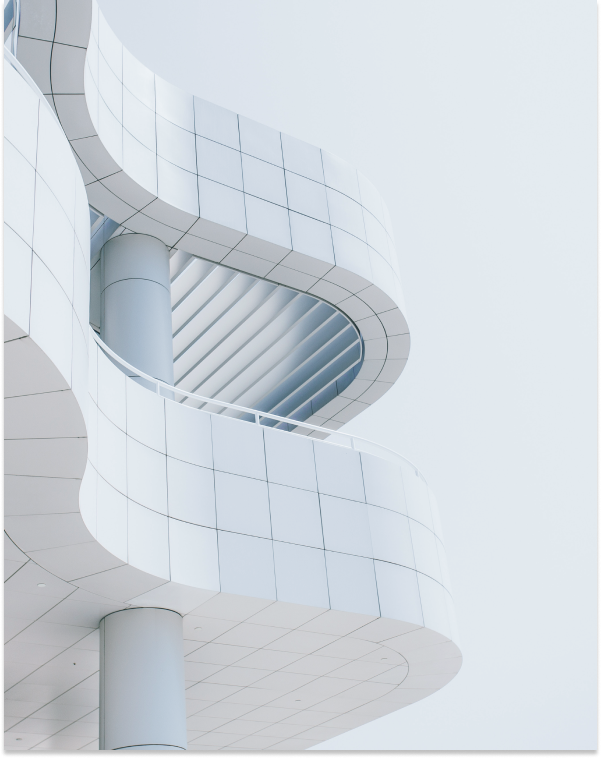
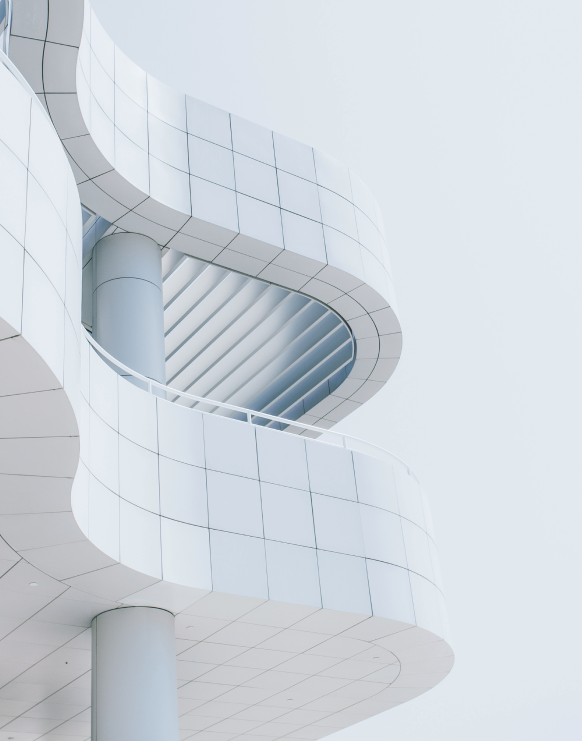
adaptiv

diff --git a/src/style/css/index.min.css b/src/style/css/index.min.css
@@ -1,2 +1,2 @@
-*{-webkit-box-sizing:border-box;box-sizing:border-box;margin:0;padding:0}.wrapper{max-width:1440px;margin:0 auto;font-family:'DM Sans', sans-serif}.container{max-width:85%;margin:0 auto}.nav-container{display:-webkit-box;display:-ms-flexbox;display:flex;-webkit-box-pack:justify;-ms-flex-pack:justify;justify-content:space-between;-webkit-box-align:center;-ms-flex-align:center;align-items:center;padding:64px 0 96px 0}.nav-container .nav__link{font-weight:bold;font-size:16px;text-decoration:none;color:#263640}.nav-container .nav__link:hover{color:#f90;border-bottom:2px solid #f90}.nav__link:not(:last-child){margin-right:40px}.button{position:relative;padding:0.5em 6em 0.5em 1em;text-decoration:none;font-family:inherit;color:#fff;background:#f90;border:none;outline:none;cursor:pointer;-webkit-transition:background 0.4s ease-in-out;transition:background 0.4s ease-in-out}.button__contact{width:12%}.button:hover{background:#ee6002}.button:before{content:"";position:absolute;top:calc(50% - 3px);right:15px;width:10px;height:2px;background:white;border-radius:2px;-webkit-transform:rotate(45deg);transform:rotate(45deg)}.button:after{content:"";position:absolute;top:calc(50% + 3px);right:15px;width:10px;height:2px;background:white;border-radius:2px;-webkit-transform:rotate(-45deg);transform:rotate(-45deg)}.link{position:relative;color:#f90;text-decoration:none;font-weight:500;font-size:16px}.link:before{content:"";position:absolute;top:calc(50% - 3px);left:150px;width:10px;height:2px;background:#f90;border-radius:2px;-webkit-transform:rotate(45deg);transform:rotate(45deg)}.link:after{content:"";position:absolute;top:calc(50% + 3px);left:150px;width:10px;height:2px;background:#f90;border-radius:2px;-webkit-transform:rotate(-45deg);transform:rotate(-45deg)}.hero__content{display:-webkit-box;display:-ms-flexbox;display:flex;-ms-flex-wrap:wrap;flex-wrap:wrap}.hero__images{width:48%;position:relative}.hero__image-header{width:593px;height:750px}.hero__image-resize{position:absolute;-webkit-transform:translate(-555px, 28px);transform:translate(-555px, 28px)}.content{display:-webkit-box;display:-ms-flexbox;display:flex;-webkit-box-orient:vertical;-webkit-box-direction:normal;-ms-flex-direction:column;flex-direction:column;padding-top:100px;width:470px}.content .content__header{text-transform:uppercase;color:#929a9f;font-size:14px;padding-bottom:15px}.content .content__title{color:#263640;line-height:45px;padding-bottom:15px}.content .content__text{color:#929a9f;line-height:28px;padding-bottom:38px;width:427px}.card{display:-webkit-box;display:-ms-flexbox;display:flex;-ms-flex-wrap:wrap;flex-wrap:wrap;-webkit-box-pack:justify;-ms-flex-pack:justify;justify-content:space-between;padding-bottom:168px}.card__wrapper{width:312px}.card__images{padding-bottom:24px}.card__title{color:#263640;font-weight:bold;font-size:20px;line-height:30px;padding-bottom:24px}.card__text{color:#929a9f;font-size:16px;line-height:28px;padding-bottom:24px}.feauture__header{width:520px}.feauture__title{padding-bottom:16px;font-size:24px;color:#263640}.feauture__text{padding-bottom:80px;font-size:16px;line-height:28px;color:#929a9f}
+*{-webkit-box-sizing:border-box;box-sizing:border-box;margin:0;padding:0}.wrapper{max-width:1440px;margin:0 auto;font-family:'DM Sans', sans-serif}.container{max-width:85%;margin:0 auto;border:2px solid red}.nav-container{display:-webkit-box;display:-ms-flexbox;display:flex;-webkit-box-pack:justify;-ms-flex-pack:justify;justify-content:space-between;-webkit-box-align:center;-ms-flex-align:center;align-items:center;padding-top:64px}.nav-container .nav__link{font-weight:bold;font-size:16px;text-decoration:none;color:#263640}.nav-container .nav__link:hover{color:#f90;border-bottom:2px solid #f90}.nav__link:not(:last-child){margin-right:40px}.button{position:relative;padding:0.5em 1em 0.5em 1em;text-decoration:none;font-family:inherit;color:#fff;background:#f90;border:none;outline:none;cursor:pointer;-webkit-transition:background 0.4s ease-in-out;transition:background 0.4s ease-in-out}.button__contact{width:10%}.button__content{width:30%}.button:hover{background:#ee6002}.button:before{content:"";position:absolute;top:calc(50% - 3px);right:15px;width:10px;height:2px;background:white;border-radius:2px;-webkit-transform:rotate(45deg);transform:rotate(45deg)}.button:after{content:"";position:absolute;top:calc(50% + 3px);right:15px;width:10px;height:2px;background:white;border-radius:2px;-webkit-transform:rotate(-45deg);transform:rotate(-45deg)}.link{position:relative;color:#f90;text-decoration:none;font-weight:500;font-size:16px}.link:before{content:"";position:absolute;top:calc(50% - 3px);left:150px;width:10px;height:2px;background:#f90;border-radius:2px;-webkit-transform:rotate(45deg);transform:rotate(45deg)}.link:after{content:"";position:absolute;top:calc(50% + 3px);left:150px;width:10px;height:2px;background:#f90;border-radius:2px;-webkit-transform:rotate(-45deg);transform:rotate(-45deg)}.hero-container{display:-webkit-box;display:-ms-flexbox;display:flex;-ms-flex-wrap:wrap;flex-wrap:wrap;-webkit-box-pack:justify;-ms-flex-pack:justify;justify-content:space-between}.hero__images{position:relative;padding-top:96px;border:2px solid red}.hero__image-header{-webkit-box-shadow:-60px 85px 0px -9px #f5f8fa;box-shadow:-60px 85px 0px -9px #f5f8fa}.hero__image-resize{position:absolute;-webkit-transform:translate(-555px, 28px);transform:translate(-555px, 28px)}.content{display:-webkit-box;display:-ms-flexbox;display:flex;-webkit-box-orient:vertical;-webkit-box-direction:normal;-ms-flex-direction:column;flex-direction:column;-webkit-box-flex:1;-ms-flex:1;flex:1;padding-top:196px;width:40%;border:2px solid red}.content .content__header{text-transform:uppercase;color:#929a9f;font-size:14px;padding-bottom:15px}.content .content__title{width:70%;color:#263640;line-height:45px;padding-bottom:15px}.content .content__text{color:#929a9f;line-height:28px;padding-bottom:35px;width:70%}.card{display:-webkit-box;display:-ms-flexbox;display:flex;-ms-flex-wrap:wrap;flex-wrap:wrap;-webkit-box-pack:justify;-ms-flex-pack:justify;justify-content:space-between;padding-bottom:168px}.card__wrapper{width:312px}.card__images{padding-bottom:24px}.card__title{color:#263640;font-weight:bold;font-size:20px;line-height:30px;padding-bottom:24px}.card__text{color:#929a9f;font-size:16px;line-height:28px;padding-bottom:24px}.feauture__header{width:520px}.feauture__title{padding-bottom:16px;font-size:24px;color:#263640}.feauture__text{padding-bottom:80px;font-size:16px;line-height:28px;color:#929a9f}
 /*# sourceMappingURL=index.min.css.map */

diff --git a/index.html b/index.html
@@ -30,7 +30,6 @@
         </div>
         <div class="hero">
             <div class="container hero-container">
-                <div class="hero__content">
                     <div class="content">
                         <h5 class="content__header">Ingenieur Dieter Weiss</h5>
                         <h1 class="content__title">Ingenieurbüro für Bau- und Vermessungswesen</h1>
@@ -39,10 +38,9 @@
                         <a href="#" class="button button__content">Ihr Projekt mit uns</a>
                     </div>
                     <div class="hero__images">
-                        <img src="src/img/hero__image.png" alt="hero__image" class="hero__image-header">
-                        <img src="src/img/hero__image-resize.png" alt="hero__image-resize" class="hero__image-resize">
+                        <img class="hero__image-header" src="src/img/hero__image.png" alt="hero__image" >
+                        <img class="hero__image-resize" src="src/img/hero__image-resize.png" alt="hero__image-resize">
                     </div>
-                </div>
             </div>
         </div>
         <div class="feauture">

diff --git a/src/scss/components/_hero.scss b/src/scss/components/_hero.scss
@@ -1,26 +1,27 @@
-.hero__content {
-   display: flex;
-   flex-wrap: wrap;
+.hero-container {
+    display: flex;
+    flex-wrap: wrap;
+    justify-content: space-between;
 }
 
 .hero__images {
-    width: 48%;
-    position: relative;
     
+    position: relative;
+    padding-top: 96px;
+    border: 2px solid red;
 }
 
 .hero__image-header {
-    width: 593px;
-    height: 750px;
-    // filter: drop-shadow(0px 4px 4px rgba(0, 0, 0, 0.25));
+    
     // border-left: #f5f8fa solid 20px;
-    // box-shadow: -60px 85px 0px -9px #f5f8fa;
+    box-shadow: -60px 85px 0px -9px #f5f8fa;
 }
 
 .hero__image-resize {
     position: absolute;
     transform: translate(-555px, 28px);
 }
+
 
 
 

diff --git a/src/scss/components/_content.scss b/src/scss/components/_content.scss
@@ -1,8 +1,10 @@
 .content {
     display: flex;
     flex-direction: column;
-    padding-top: 100px;
-    width: 470px;
+    flex: 1;
+    padding-top: 196px;
+    width: 40%;
+    border: 2px solid red;
     
 
     & .content__header {
@@ -13,6 +15,7 @@
     }
 
     & .content__title {
+        width: 70%;
         color: $black-text;
         line-height: 45px;
         padding-bottom: 15px;
@@ -21,8 +24,8 @@
     & .content__text {
         color: $gray-text;
         line-height: 28px;
-        padding-bottom: 38px;
-        width: 427px;
+        padding-bottom: 35px;
+        width: 70%;
     }
 }
 

diff --git a/src/scss/components/_button.scss b/src/scss/components/_button.scss
@@ -1,6 +1,6 @@
 .button {
     position: relative;
-    padding: 0.5em 6em 0.5em 1em;
+    padding: 0.5em 1em 0.5em 1em;
     text-decoration: none;
     font-family: inherit;
     color: $white-text;
@@ -12,7 +12,11 @@
 }
 
 .button__contact {
-    width: 12%;
+    width: 10%;
+}
+
+.button__content {
+    width: 30%;
 }
 
 .button:hover {

diff --git a/src/scss/components/_navigation.scss b/src/scss/components/_navigation.scss
@@ -2,7 +2,7 @@
     display: flex;
     justify-content: space-between;
     align-items: center;
-    padding: 64px 0 96px 0;
+    padding-top: 64px;
     
     .nav__link {
         font-weight: bold;

diff --git a/src/scss/components/_container.scss b/src/scss/components/_container.scss
@@ -1,4 +1,5 @@
 .container {
     max-width: 85%;
     margin: 0 auto;
+    border: 2px solid red;
 }
